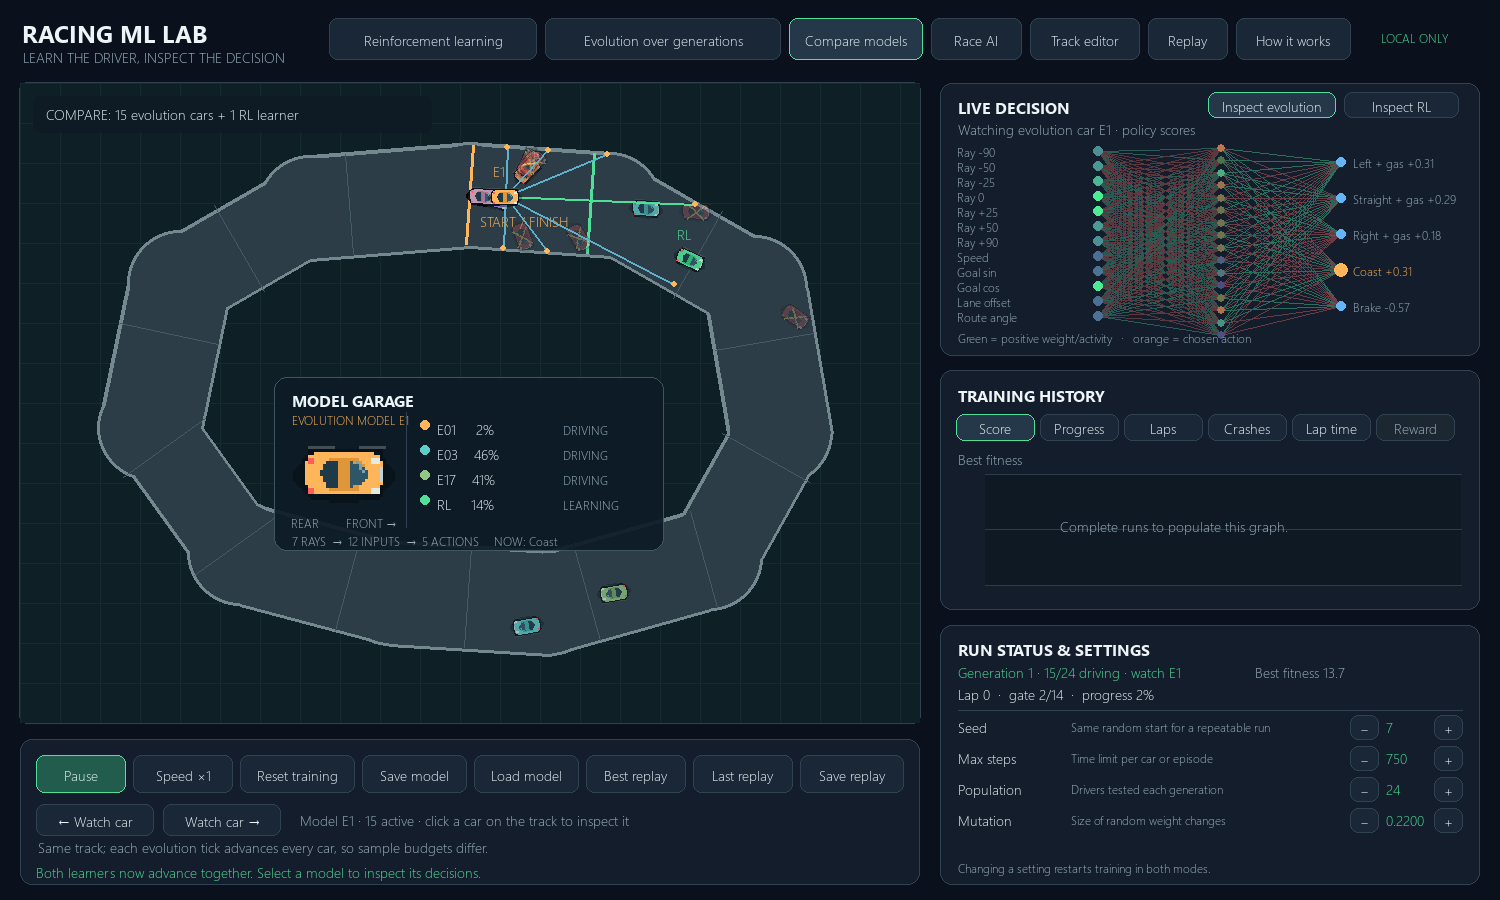
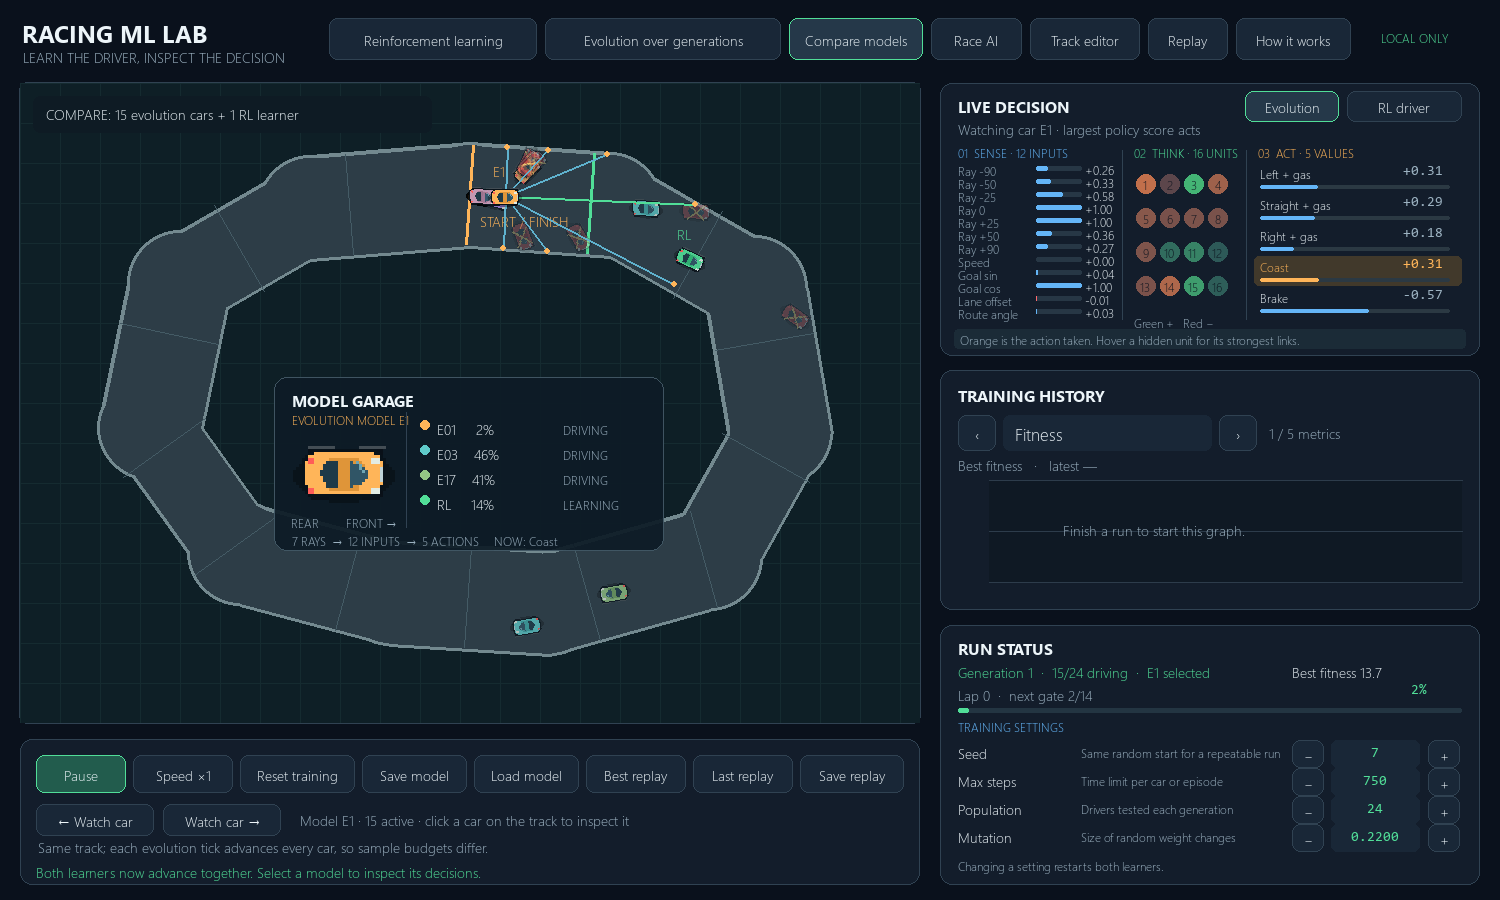
Clarify live learning dashboard

diff --git a/racing_lab/app.py b/racing_lab/app.py
@@ -66,6 +66,7 @@ class App:
         self.tiny = pygame.font.SysFont("segoeui", 12)
         self.title = pygame.font.SysFont("segoeui", 24, bold=True)
         self.bold = pygame.font.SysFont("segoeui", 16, bold=True)
+        self.mono = pygame.font.SysFont("consolas", 14)
         self.car_painter = CarPainter()
         self.track = default_track()
         self.settings = Settings()
@@ -117,6 +118,13 @@ class App:
         self.screen.blit(rendered, rendered.get_rect(center=rect.center))
         if not disabled:
             self.buttons.append((rect, action))
+
+    def cycle_metric(self, direction: int) -> None:
+        metrics = ["score", "progress", "completion", "crashes", "lap"]
+        if self.algorithm == "dqn":
+            metrics.append("reward")
+        current = self.chart_metric if self.chart_metric in metrics else metrics[0]
+        self.chart_metric = metrics[(metrics.index(current) + direction) % len(metrics)]
 
     def reset_trainers(self):
         self.trainers = {"evolution": EvolutionTrainer(self.track, self.settings),
@@ -585,74 +593,96 @@ class App:
     def _draw_inspector(self):
         rect = pygame.Rect(RX, 83, RW, 273)
         box(self.screen, rect)
-        text(self.screen, self.bold, "LIVE DECISION", TEXT, RX + 18, 96)
+        text(self.screen, self.bold, "LIVE DECISION", TEXT, RX + 18, 95)
         if self.view == "compare":
-            self.button("Inspect evolution", (RX + 268, 92, 128, 26),
+            self.button("Evolution", (RX + 305, 91, 94, 31),
                         lambda: setattr(self, "algorithm", "evolution"),
                         active=self.algorithm == "evolution")
-            self.button("Inspect RL", (RX + 404, 92, 115, 26),
+            self.button("RL driver", (RX + 407, 91, 115, 31),
                         lambda: setattr(self, "algorithm", "dqn"),
                         active=self.algorithm == "dqn")
-        subtitle = (f"Watching evolution car E{self.trainers['evolution'].index + 1} · policy scores"
+        subtitle = (f"Watching car E{self.trainers['evolution'].index + 1} · largest policy score acts"
                     if self.algorithm == "evolution" and self.view in ("train", "compare") else
-                    "Q values → greedy or explore" if self.algorithm == "dqn" else
-                    "Policy scores → highest wins")
-        text(self.screen, self.small, subtitle, MUTED, RX + 18, 119)
+                    "DQN · Q values estimate future reward" if self.algorithm == "dqn" else
+                    "Policy scores · largest value acts")
+        text(self.screen, self.small, subtitle, MUTED, RX + 18, 119, 500)
         frame = self._world_frame() or {}
         obs = np.asarray(frame.get("observation", []), dtype=float)
         hidden = np.asarray(frame.get("hidden", []), dtype=float)
         outputs = np.asarray(frame.get("outputs", []), dtype=float)
         action = frame.get("action")
-        input_x, hidden_x, output_x = RX + 158, RX + 281, RX + 401
-        in_ys = [151 + i * 15 for i in range(len(INPUT_NAMES))]
-        hidden_ys = [148 + i * 12.5 for i in range(16)]
-        out_ys = [162 + i * 36 for i in range(5)]
-        network = self.opponent_network if self.view == "race" and self.opponent_network else self.trainer.current_network
-        show_weights = self.view != "replay"
-        for i, y1 in enumerate(in_ys):
-            for j, y2 in enumerate(hidden_ys):
-                weight = network.w1[i, j]
-                pygame.draw.line(self.screen, (41, 93, 84) if weight >= 0 and show_weights else
-                                 (91, 55, 62) if show_weights else (54, 67, 76),
-                                 (input_x, int(y1)), (hidden_x, int(y2)), 1)
-        for i, y1 in enumerate(hidden_ys):
-            for j, y2 in enumerate(out_ys):
-                weight = network.w2[i, j]
-                pygame.draw.line(self.screen, (44, 109, 91) if weight >= 0 and show_weights else
-                                 (105, 60, 67) if show_weights else (54, 67, 76),
-                                 (hidden_x, int(y1)), (output_x, int(y2)), 1)
-        for i, y in enumerate(in_ys):
-            value = obs[i] if len(obs) == len(INPUT_NAMES) else 0
-            text(self.screen, self.tiny, INPUT_NAMES[i], MUTED, RX + 17, int(y) - 7)
-            pygame.draw.circle(self.screen, (76, int(110 + min(1, abs(value)) * 125), 148),
-                               (input_x, y), 5)
-        for i, y in enumerate(hidden_ys):
-            value = hidden[i] if len(hidden) == 16 else 0
-            intensity = int(75 + min(1, abs(value)) * 160)
-            pygame.draw.circle(self.screen, (intensity, 116, 78) if value < 0 else (76, intensity, 130),
-                               (hidden_x, int(y)), 4)
-        for i, y in enumerate(out_ys):
+        # Three stages expose actual values without burying them under 272 weight lines.
+        for x in (RX + 182, RX + 306):
+            pygame.draw.line(self.screen, BORDER, (x, 150), (x, 319))
+        text(self.screen, self.tiny, "01  SENSE · 12 INPUTS", BLUE, RX + 18, 145)
+        text(self.screen, self.tiny, "02  THINK · 16 UNITS", GREEN, RX + 194, 145)
+        text(self.screen, self.tiny, "03  ACT · 5 VALUES", ORANGE, RX + 318, 145)
+        for i, name in enumerate(INPUT_NAMES):
+            y = 165 + i * 13
+            value = float(obs[i]) if len(obs) == len(INPUT_NAMES) else 0.0
+            text(self.screen, self.tiny, name, MUTED, RX + 18, y - 2, 76)
+            pygame.draw.rect(self.screen, (39, 55, 69), (RX + 96, y + 1, 46, 5), border_radius=2)
+            width = round(min(1, abs(value)) * 46)
+            if width:
+                pygame.draw.rect(self.screen, BLUE if value >= 0 else RED,
+                                 (RX + 96, y + 1, width, 5), border_radius=2)
+            text(self.screen, self.tiny, f"{value:+.2f}", TEXT, RX + 145, y - 3)
+        hovered = None
+        for i in range(16):
+            x = RX + 206 + (i % 4) * 24
+            y = 184 + (i // 4) * 34
+            value = float(hidden[i]) if len(hidden) == 16 else 0.0
+            strength = min(1, abs(value))
+            color = (int(45 + 39 * strength), int(89 + 150 * strength),
+                     int(88 + 48 * strength)) if value >= 0 else (
+                     int(92 + 135 * strength), int(70 + 55 * strength), 75)
+            pygame.draw.circle(self.screen, color, (x, y), 10)
+            if math.dist(pygame.mouse.get_pos(), (x, y)) <= 11:
+                hovered = i
+                pygame.draw.circle(self.screen, TEXT, (x, y), 12, 1)
+            text(self.screen, self.tiny, str(i + 1), BG, x - (6 if i >= 9 else 3), y - 7)
+        text(self.screen, self.tiny, "Green +   Red −", MUTED, RX + 194, 315)
+        scale = max(1.0, *(abs(float(v)) for v in outputs)) if len(outputs) == 5 else 1.0
+        for i, name in enumerate(ACTION_NAMES):
+            y = 166 + i * 31
             selected = action == i
-            pygame.draw.circle(self.screen, ORANGE if selected else BLUE, (output_x, y), 7 if selected else 5)
-            value = f" {outputs[i]:+.2f}" if len(outputs) == 5 else ""
-            text(self.screen, self.tiny, ACTION_NAMES[i] + value,
-                 ORANGE if selected else MUTED, output_x + 12, y - 7, 113)
-        if self.view == "replay":
-            text(self.screen, self.tiny, "Recorded node values and action; wire weights are not recorded.",
-                 MUTED, RX + 18, 330)
+            if selected:
+                pygame.draw.rect(self.screen, (65, 57, 43),
+                                 (RX + 314, y - 3, 208, 30), border_radius=5)
+            value = float(outputs[i]) if len(outputs) == 5 else 0.0
+            text(self.screen, self.tiny, name, ORANGE if selected else TEXT,
+                 RX + 320, y, 125)
+            text(self.screen, self.mono, f"{value:+.2f}", ORANGE if selected else MUTED,
+                 RX + 463, y - 2)
+            pygame.draw.rect(self.screen, (43, 57, 67),
+                             (RX + 320, y + 19, 190, 4), border_radius=2)
+            pygame.draw.rect(self.screen, ORANGE if selected else BLUE if value >= 0 else RED,
+                             (RX + 320, y + 19, max(2, round(abs(value) / scale * 190)), 4),
+                             border_radius=2)
+        footer = pygame.Rect(RX + 14, 329, RW - 28, 20)
+        pygame.draw.rect(self.screen, (27, 43, 55), footer, border_radius=4)
+        if hovered is not None and self.view != "replay" and len(obs) == 12 and len(hidden) == 16:
+            network = self.opponent_network if self.view == "race" and self.opponent_network else self.trainer.current_network
+            contributions = obs * network.w1[:, hovered]
+            strongest_input = int(np.argmax(np.abs(contributions)))
+            outgoing = hidden[hovered] * network.w2[hovered]
+            strongest_output = int(np.argmax(np.abs(outgoing)))
+            note = (f"H{hovered + 1}: {INPUT_NAMES[strongest_input]} {contributions[strongest_input]:+.2f}"
+                    f"  →  {ACTION_NAMES[strongest_output]} {outgoing[strongest_output]:+.2f}")
+        elif self.view == "replay":
+            note = "Replay shows recorded activity and action. Historical weights are not saved."
         elif self.algorithm == "dqn" and self.view in ("train", "compare"):
-            exploration = "explore: random action" if self.trainer.explored else "greedy: highest Q"
-            text(self.screen, self.tiny, exploration, ORANGE if self.trainer.explored else GREEN,
-                 RX + 18, 330)
+            note = ("EXPLORING · random action chosen" if self.trainer.explored else
+                    "GREEDY · highest Q value chosen") + "    ·    Hover a hidden unit for its strongest links"
         else:
-            text(self.screen, self.tiny, "Green = positive weight/activity   ·   orange = chosen action",
-                 MUTED, RX + 18, 330)
+            note = "Orange is the action taken. Hover a hidden unit for its strongest links."
+        text(self.screen, self.tiny, note, MUTED, footer.x + 6, footer.y + 3, footer.width - 12)
 
     def _metric_values(self):
+        metric = "score" if self.algorithm == "evolution" and self.chart_metric == "reward" else self.chart_metric
         rows = (self.trainer.evaluation_history[-45:]
-                if self.algorithm == "dqn" and self.chart_metric == "score"
+                if self.algorithm == "dqn" and metric == "score"
                 else self.trainer.history[-45:])
-        metric = self.chart_metric
         if metric == "score":
             values = [row["best"] for row in rows] if self.algorithm == "evolution" else [row["score"] for row in rows]
             label = "Best fitness" if self.algorithm == "evolution" else "Greedy evaluation score (every 10 episodes)"
@@ -676,25 +706,30 @@ class App:
     def _draw_chart(self):
         box(self.screen, pygame.Rect(RX, 370, RW, 240))
         text(self.screen, self.bold, "TRAINING HISTORY", TEXT, RX + 18, 384)
-        metrics = [("score", "Score"), ("progress", "Progress"),
-                   ("completion", "Laps"), ("crashes", "Crashes"),
-                   ("lap", "Lap time"), ("reward", "Reward")]
-        for i, (key, label) in enumerate(metrics):
-            self.button(label, (RX + 16 + i * 84, 414, 79, 27),
-                        lambda key=key: setattr(self, "chart_metric", key),
-                        active=self.chart_metric == key,
-                        disabled=key == "reward" and self.algorithm == "evolution")
+        metrics = [("score", "Fitness" if self.algorithm == "evolution" else "Greedy score"),
+                   ("progress", "Track progress"), ("completion", "Lap completion"),
+                   ("crashes", "Crash rate"), ("lap", "Best lap time")]
+        if self.algorithm == "dqn":
+            metrics.append(("reward", "Training reward"))
+        selected = self.chart_metric if self.chart_metric in dict(metrics) else "score"
+        position = [key for key, _ in metrics].index(selected) + 1
+        self.button("‹", (RX + 18, 415, 38, 36), lambda: self.cycle_metric(-1))
+        pygame.draw.rect(self.screen, PANEL2, (RX + 63, 415, 209, 36), border_radius=7)
+        text(self.screen, self.font, dict(metrics)[selected], TEXT, RX + 75, 422, 190)
+        self.button("›", (RX + 279, 415, 38, 36), lambda: self.cycle_metric(1))
+        text(self.screen, self.small, f"{position} / {len(metrics)} metrics", MUTED, RX + 329, 423)
         rows, values, label = self._metric_values()
-        text(self.screen, self.small, label, MUTED, RX + 18, 449)
-        plot = pygame.Rect(RX + 45, 474, RW - 64, 111)
+        valid = [v for v in values if v is not None]
+        latest = f"{valid[-1]:.1f}" if valid else "—"
+        text(self.screen, self.small, f"{label}   ·   latest {latest}", MUTED, RX + 18, 455, 505)
+        plot = pygame.Rect(RX + 49, 480, RW - 67, 102)
         pygame.draw.rect(self.screen, (15, 25, 36), plot)
         for fraction in (0, 0.5, 1):
             y = plot.bottom - fraction * plot.height
             pygame.draw.line(self.screen, (45, 60, 75), (plot.left, y), (plot.right, y))
-        valid = [v for v in values if v is not None]
         if not valid:
-            text(self.screen, self.small, "Complete runs to populate this graph.", MUTED,
-                 plot.x + 75, plot.y + 42)
+            prompt = "A finished greedy evaluation will appear here." if self.algorithm == "dqn" and selected == "score" else "Finish a run to start this graph."
+            text(self.screen, self.small, prompt, MUTED, plot.x + 74, plot.y + 40)
             return
         low, high = min(valid), max(valid)
         if low == high:
@@ -715,42 +750,54 @@ class App:
         if len(values) >= 3 and all(v is not None for v in values):
             smoothed = [float(np.mean(values[max(0, i - 9):i + 1])) for i in range(len(values))]
             pygame.draw.lines(self.screen, GREEN, False, coords(smoothed), 2)
-        if self.algorithm == "dqn" and self.chart_metric == "score" and len(values) > 1:
+        if self.algorithm == "dqn" and selected == "score" and len(values) > 1:
             best_so_far = list(np.maximum.accumulate(values))
             pygame.draw.lines(self.screen, ORANGE, False, coords(best_so_far), 2)
-            legend = "Blue: greedy eval   Green: trailing mean   Orange: saved best"
+            legend = "Each eval     10-eval mean     Best so far"
         else:
-            legend = "Blue: each run    Green: trailing 10-run mean"
-        text(self.screen, self.tiny, legend, MUTED, RX + 18, 589)
-        unit = "evaluations" if self.algorithm == "dqn" and self.chart_metric == "score" else "runs"
-        text(self.screen, self.tiny, f"{len(rows)} recent {unit}", MUTED, RX + 387, 589)
+            legend = "Each run     Trailing 10-run mean"
+        pygame.draw.line(self.screen, BLUE, (RX + 18, 595), (RX + 34, 595), 3)
+        text(self.screen, self.tiny, legend.split("     ")[0], MUTED, RX + 39, 587)
+        pygame.draw.line(self.screen, GREEN, (RX + 122, 595), (RX + 138, 595), 3)
+        text(self.screen, self.tiny, legend.split("     ")[1], MUTED, RX + 143, 587)
+        if self.algorithm == "dqn" and selected == "score":
+            pygame.draw.line(self.screen, ORANGE, (RX + 278, 595), (RX + 294, 595), 3)
+            text(self.screen, self.tiny, "Best so far", MUTED, RX + 299, 587)
+        unit = "evals" if self.algorithm == "dqn" and selected == "score" else "runs"
+        text(self.screen, self.tiny, f"{len(rows)} {unit}", MUTED, RX + 451, 587)
 
     def _draw_settings(self):
         box(self.screen, pygame.Rect(RX, 625, RW, 260))
-        text(self.screen, self.bold, "RUN STATUS & SETTINGS", TEXT, RX + 18, 638)
+        text(self.screen, self.bold, "RUN STATUS", TEXT, RX + 18, 637)
         trainer = self.trainer
         if self.algorithm == "evolution":
-            run_text = (f"Generation {trainer.generation} · {trainer.active_count}/{len(trainer.population)} driving"
-                        f" · watch E{trainer.index + 1}")
+            run_text = (f"Generation {trainer.generation}  ·  {trainer.active_count}/{len(trainer.population)} driving"
+                        f"  ·  E{trainer.index + 1} selected")
             extra = (f"Best fitness {trainer.best_score:.1f}" if math.isfinite(trainer.best_score)
                      else "Loaded AI; untested here" if trainer.best_network else "No finished car yet")
         else:
-            run_text = f"Episode {trainer.episode} · ε {trainer.epsilon:.2f} · memory {len(trainer.memory)}"
+            run_text = f"Episode {trainer.episode}  ·  ε {trainer.epsilon:.2f}  ·  {len(trainer.memory)} memories"
             extra = (f"Best greedy {trainer.best_score:.1f}" if math.isfinite(trainer.best_score)
                      else "Loaded AI; untested here" if trainer.best_network
                      else "Greedy eval every 10 runs")
-        text(self.screen, self.small, run_text, GREEN, RX + 18, 662)
-        text(self.screen, self.small, extra, MUTED, RX + 315, 662, 205)
+        text(self.screen, self.small, run_text, GREEN, RX + 18, 662, 328)
+        text(self.screen, self.small, extra, TEXT, RX + 352, 662, 169)
         car = trainer.car if self.view in ("train", "compare") else self.opponent if self.view == "race" else None
         if car:
             progress = min(100, car.max_progress / self.track.total_length * 100)
-            status = f"Lap {car.laps}  ·  gate {car.next_gate + 1}/{len(self.track.checkpoints)}  ·  progress {progress:.0f}%"
+            status = f"Lap {car.laps}  ·  next gate {car.next_gate + 1}/{len(self.track.checkpoints)}"
         elif self.view == "replay" and self.replay:
+            progress = self.replay_index / max(1, len(self.replay["frames"]) - 1) * 100
             status = f"Replay frame {self.replay_index + 1}/{len(self.replay['frames'])}"
         else:
+            progress = 0
             status = "Shared track, sensors, physics, and scoring"
-        text(self.screen, self.small, status, TEXT, RX + 18, 684)
-        pygame.draw.line(self.screen, BORDER, (RX + 18, 710), (RX + RW - 18, 710))
+        text(self.screen, self.small, status, MUTED, RX + 18, 685, 382)
+        text(self.screen, self.mono, f"{progress:.0f}%", GREEN, RX + 471, 683)
+        pygame.draw.rect(self.screen, (35, 53, 66), (RX + 18, 708, RW - 36, 5), border_radius=3)
+        if progress:
+            pygame.draw.rect(self.screen, GREEN, (RX + 18, 708, round((RW - 36) * progress / 100), 5), border_radius=3)
+        text(self.screen, self.tiny, "TRAINING SETTINGS", BLUE, RX + 18, 719)
         rows = [("Seed", "seed", "Same random start for a repeatable run"),
                 ("Max steps", "max_steps", "Time limit per car or episode")]
         if self.algorithm == "evolution":
@@ -761,20 +808,22 @@ class App:
                      ("Explore decay", "epsilon_decay", "How quickly random actions fade"),
                      ("Batch size", "batch_size", "Past steps used for each update")]
         for i, (label, attr, hint) in enumerate(rows):
-            y = 717 + i * 31
+            y = 740 + i * 28
             value = getattr(self.settings, attr)
             shown = f"{value:.4f}" if isinstance(value, float) else str(value)
-            text(self.screen, self.small, label, TEXT, RX + 18, y)
-            text(self.screen, self.tiny, hint, MUTED, RX + 131, y + 2, 245)
-            self.button("−", (RX + 410, y - 2, 29, 25),
+            text(self.screen, self.small, label, TEXT, RX + 18, y + 3)
+            text(self.screen, self.tiny, hint, MUTED, RX + 141, y + 5, 199)
+            self.button("−", (RX + 352, y, 32, 28),
                         lambda attr=attr: self.change_setting(attr, -1),
                         disabled=self.view not in ("train", "compare"))
-            text(self.screen, self.small, shown, GREEN, RX + 446, y, 45)
-            self.button("+", (RX + 494, y - 2, 29, 25),
+            pygame.draw.rect(self.screen, PANEL2, (RX + 391, y, 89, 28), border_radius=6)
+            rendered = self.mono.render(shown, True, GREEN)
+            self.screen.blit(rendered, rendered.get_rect(center=(RX + 435, y + 14)))
+            self.button("+", (RX + 488, y, 32, 28),
                         lambda attr=attr: self.change_setting(attr, 1),
                         disabled=self.view not in ("train", "compare"))
-        text(self.screen, self.tiny, "Changing a setting restarts training in both modes.",
-             MUTED, RX + 18, 860)
+        if self.algorithm == "evolution":
+            text(self.screen, self.tiny, "Changing a setting restarts both learners.", MUTED, RX + 18, 858)
 
     def _draw_bottom(self):
         box(self.screen, pygame.Rect(20, 739, 900, 146))

diff --git a/tests/test_app.py b/tests/test_app.py
@@ -96,3 +96,21 @@ def test_named_training_tabs_and_compare_inspector_are_clickable(workbench):
     workbench.handle_event(pygame.event.Event(pygame.MOUSEBUTTONDOWN,
                                              {"button": 1, "pos": (RX + 460, 104)}))
     assert workbench.algorithm == "dqn"
+
+
+def test_metric_selector_cycles_valid_metrics_in_each_training_mode(workbench):
+    workbench.draw()
+    workbench.handle_event(pygame.event.Event(pygame.MOUSEBUTTONDOWN,
+                                             {"button": 1, "pos": (RX + 298, 433)}))
+    assert workbench.chart_metric == "progress"
+    workbench.cycle_metric(-1)
+    assert workbench.chart_metric == "score"
+    workbench.cycle_metric(-1)
+    assert workbench.chart_metric == "lap"
+    workbench.select_algorithm("dqn")
+    workbench.cycle_metric(1)
+    assert workbench.chart_metric == "reward"
+    workbench.select_algorithm("evolution")
+    workbench.cycle_metric(1)
+    assert workbench.chart_metric == "progress"
+    workbench.draw()

diff --git a/README.md b/README.md
@@ -65,9 +65,9 @@ DQN stores `(state, action, reward, next state, done)` after each step. Every fo
 
 - **Track:** each colored top-down car is a separate evolution policy. The orange car is the one currently being inspected; the green car is the DQN learner in Compare models. Blue/green rays measure the inspected car's wall distance, orange dots mark where rays end, green marks the next gate, and red marks a crash. Every car has the same physics and start position.
 - **Model garage:** a magnified view of the inspected car, the current driving action, and a small live roster of other cars and their progress. This is a larger view of the actual Pygame car artwork; its body aligns with the simulation's collision box.
-- **Network:** the left column is the 12 sensor inputs, the middle is 16 hidden activations, and the right is the five action values. Green/red wires indicate the signs of current weights during training. Replay shows recorded activations and actions; its wire colors are neutral because weights at every replay frame are not stored.
-- **Training history:** blue is each generation or episode; green is a trailing 10-run mean. DQN's score chart uses greedy evaluations every tenth episode, with an orange line for the best saved checkpoint; its other charts show exploratory training episodes. Select score, progress, lap completion, crash rate, best lap time, or DQN reward. An empty lap-time graph means no completed lap yet. DQN can improve and later regress, which is why the best evaluated network is saved separately.
-- **Run status:** current generation/car or episode/ε/replay-memory size, progress, gates, and learning settings. Changing a setting resets both learners so subsequent comparisons use the same track and seed.
+- **Live decision:** read from left to right. The input bars show the 12 numbers the car senses, the 16 numbered circles show hidden-layer activity (green positive, red negative), and the action bars show the five output values. Orange marks the action actually taken. In evolution the outputs are policy scores; in DQN they estimate future reward. DQN may take a random exploratory action even when another Q value is larger. Hover a hidden unit to see its strongest current input contribution and output link. Replay shows recorded activity and action; historical weights are not saved.
+- **Training history:** use the arrow buttons to cycle through score, progress, lap completion, crash rate, best lap time, and DQN reward. Blue is each generation or episode; green is a trailing 10-run mean. DQN's score chart uses greedy evaluations every tenth episode, with an orange line for the best saved checkpoint; its other charts show exploratory training episodes. An empty lap-time graph means no completed lap yet. DQN can improve and later regress, which is why the best evaluated network is saved separately.
+- **Run status:** current generation/car or episode/ε/replay-memory size, a progress bar, next gate, and learning settings. Changing a setting resets both learners so subsequent comparisons use the same track and seed.
 
 ## Make a track, race, and inspect a replay
 
